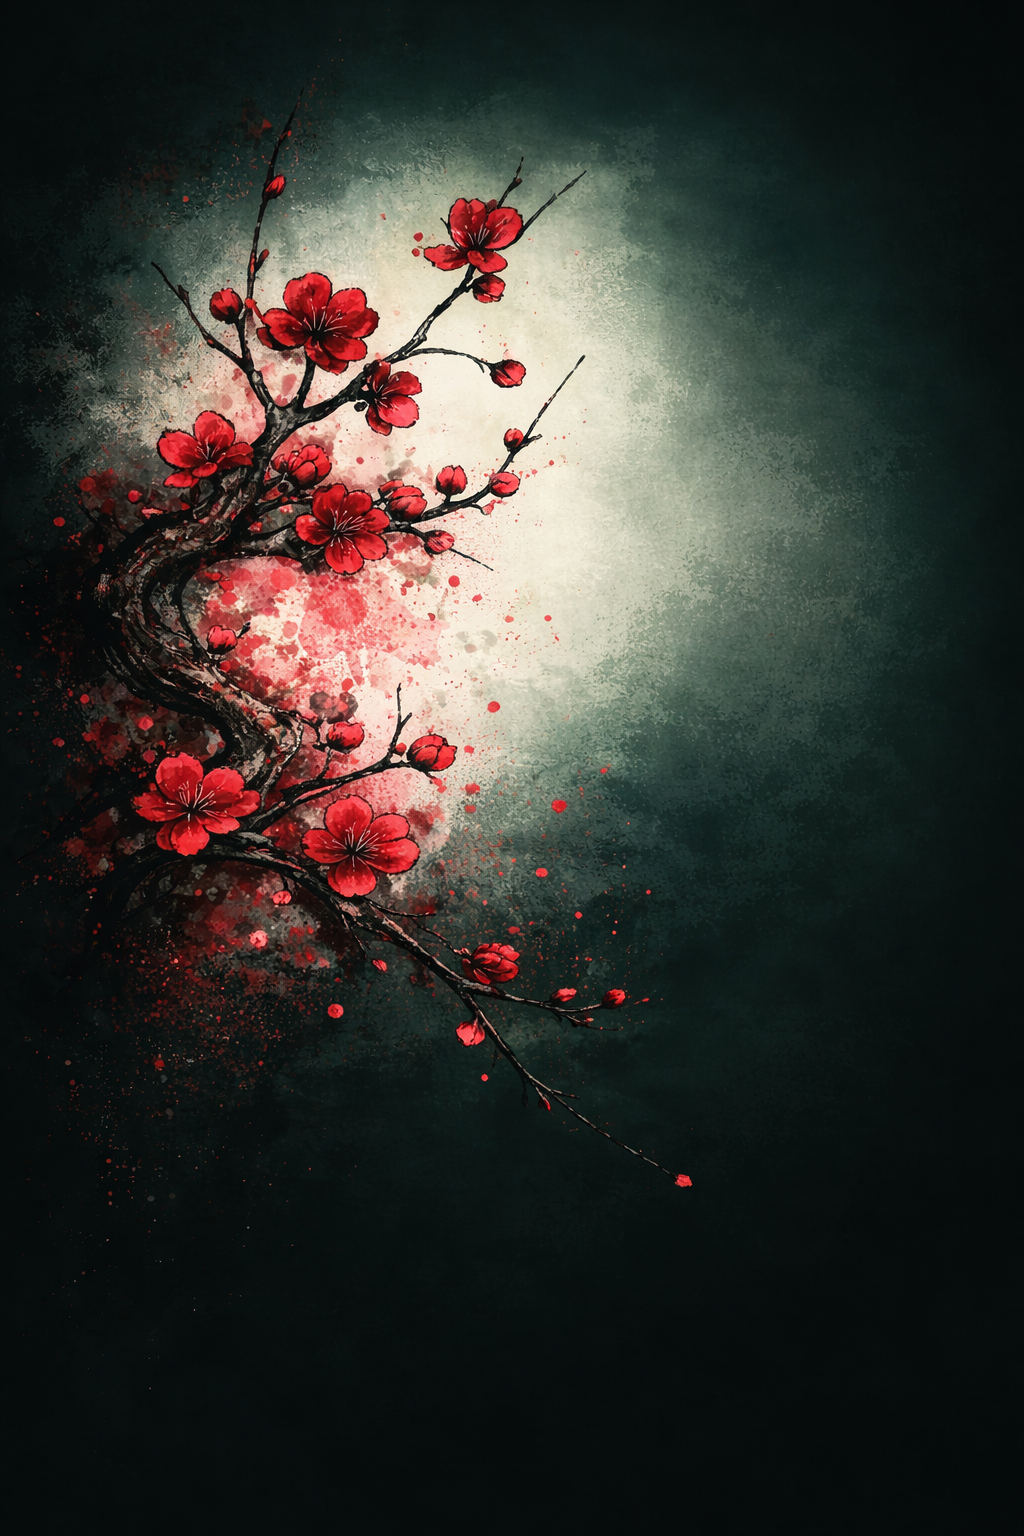
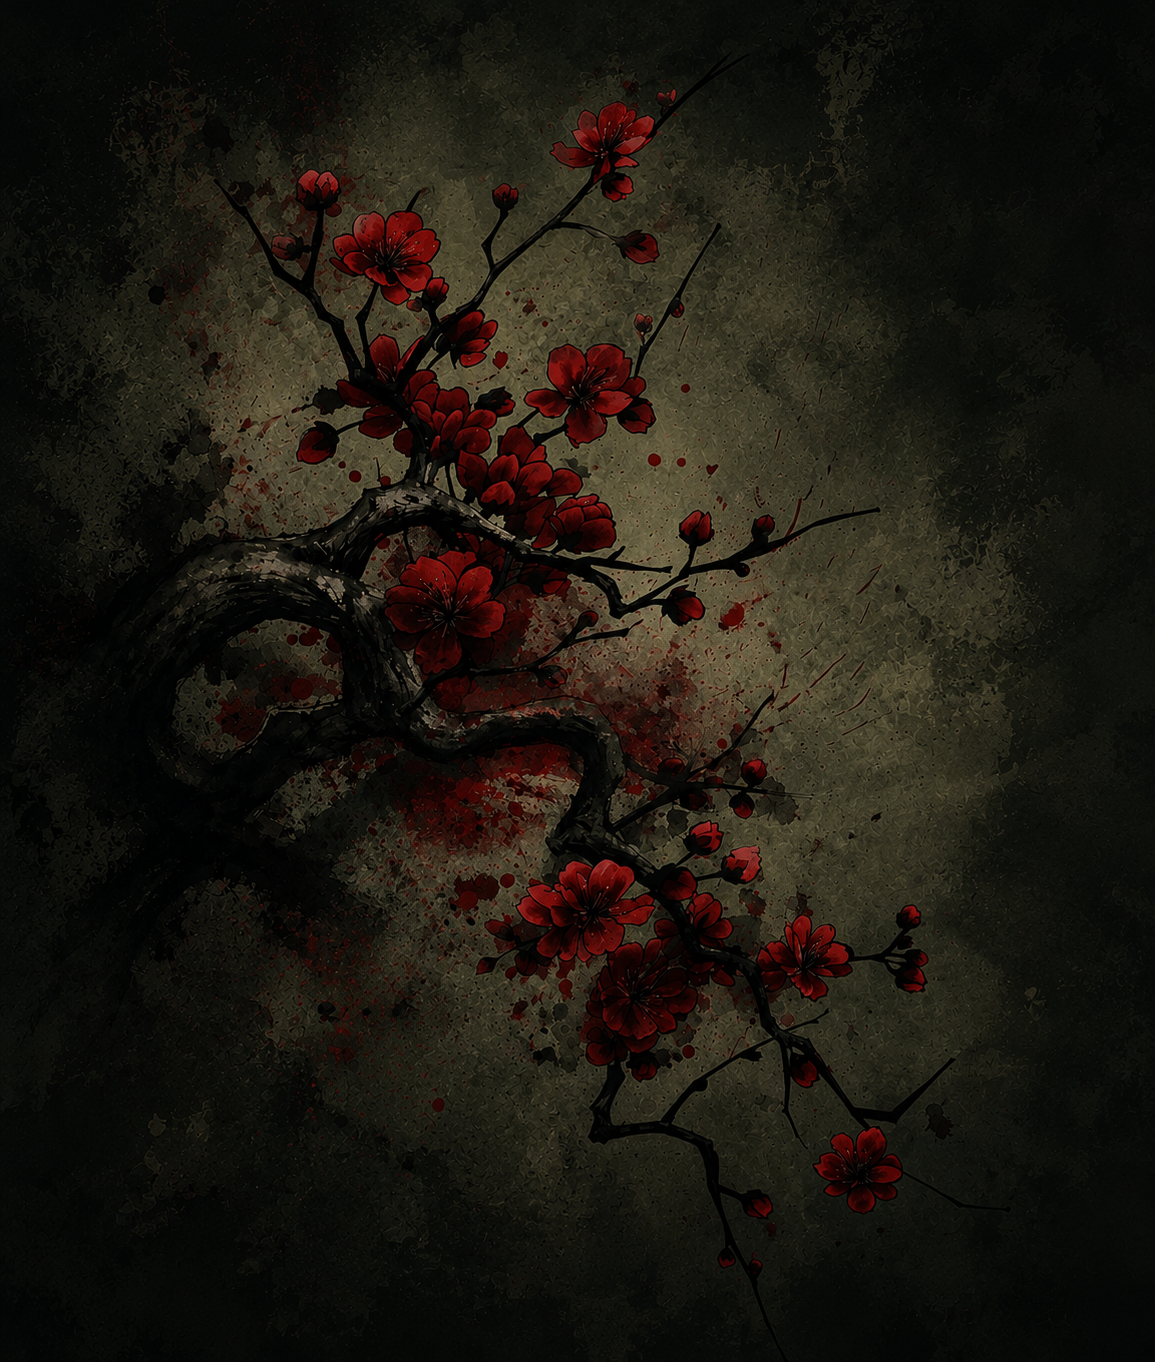
style: set light mode background for music section, adjust translucency, and lift sidebar sakura image

diff --git a/src/app/styles.css b/src/app/styles.css
@@ -262,7 +262,7 @@ body {
   transition: opacity 0.1s ease;
   /* Fade the top of the image smoothly into the background */
   -webkit-mask-image: linear-gradient(to bottom, transparent 0%, black 25%);
-  mask-image: linear-gradient(to bottom, transparent 0%, black 70%);
+  mask-image: linear-gradient(to bottom, transparent 0%, black 50%);
 }
 
 /* Light Mode: Show Light Image, Hide Dark Image */
@@ -288,6 +288,7 @@ body {
   display: block;
   opacity: 0.85;
   mix-blend-mode: screen;
+  transform: translateY(-25px);
   /* Helps the dark image blend without a hard box */
 }
 
@@ -306,7 +307,8 @@ body {
   justify-content: space-between;
   /* Space out hamburger and user actions */
   align-items: center;
-  background: rgba(5, 5, 5, 0.85); /* Darker, more solid for scroll */
+  background: rgba(5, 5, 5, 0.85);
+  /* Darker, more solid for scroll */
   backdrop-filter: blur(20px);
   -webkit-backdrop-filter: blur(20px);
   border-bottom: 2px solid var(--glass-border);
@@ -955,6 +957,16 @@ input:checked+.slider:before {
   /* Prevents flex/grid blowout */
 }
 
+.bento-item-translucent {
+  background: rgba(10, 10, 10, 0.10);
+  backdrop-filter: blur(14px);
+}
+
+[data-theme='light'] .bento-item-translucent {
+  background: rgba(255, 255, 255, 0.45);
+  backdrop-filter: blur(14px);
+}
+
 .bento-item>section {
   flex: 1;
   width: 100%;
@@ -1228,7 +1240,7 @@ section:hover {
 }
 
 /* Ensure all timer content sits above the bg image */
-.timer-box > * {
+.timer-box>* {
   position: relative;
   z-index: 1;
 }
@@ -1292,7 +1304,7 @@ section:hover {
 }
 
 /* Hide divider immediately after the active tab */
-.mode-btn.active + .tab-divider {
+.mode-btn.active+.tab-divider {
   opacity: 0;
 }
 
@@ -1784,11 +1796,12 @@ nav.gen {
 }
 
 @media (max-width: 768px) {
+
   .theme-toggle span,
   .auth-btn span {
     display: none;
   }
-  
+
   .theme-toggle,
   .auth-btn {
     padding: 0.6rem;
@@ -2189,6 +2202,10 @@ footer {
    =================================== */
 
 /* Timer UI Overrides */
+[data-theme='light'] .timer-box::before {
+  background-image: url('/images/pomodaybg.png');
+}
+
 [data-theme='light'] .timer-glow-bg {
   background: var(--card-bg);
   box-shadow: 0 10px 30px rgba(0, 0, 0, 0.05);

diff --git a/src/app/HomeClient.tsx b/src/app/HomeClient.tsx
@@ -35,20 +35,20 @@ const HomeClient: React.FC = () => {
                 </div>
 
                 {/* Row 2: Notes (Full Width) */}
-                <div className="bento-item bento-row-full">
+                <div className="bento-item bento-row-full bento-item-translucent">
                     <NotesSection {...notes} />
                 </div>
 
                 {/* Row 3: Tasks + Study Groups (50/50) */}
-                <div className="bento-item">
+                <div className="bento-item bento-item-translucent">
                     <TasksSection {...tasks} />
                 </div>
-                <div className="bento-item">
+                <div className="bento-item bento-item-translucent">
                     <StudyGroupsSection />
                 </div>
 
                 {/* Row 4: Motivation (Full Width) */}
-                <div className="bento-item bento-row-full">
+                <div className="bento-item bento-row-full bento-item-translucent">
                     <MotivationSection />
                 </div>
             </main>

diff --git a/src/app/components/sections/music-styles.css b/src/app/components/sections/music-styles.css
@@ -1318,6 +1318,18 @@
    LIGHT MODE OVERRIDES FOR MUSIC UI
    =================================== */
 
+[data-theme='light'] .music-box {
+    background-image: url('/images/musicdaybg.png');
+}
+
+[data-theme='light'] .music-box:hover {
+    background-image: url('/images/musicdaybg.png');
+}
+
+[data-theme='light'] .music-box::before {
+    background: rgba(255, 255, 255, 0.35);
+}
+
 [data-theme='light'] .music-settings {
     background: rgba(48, 82, 41, 0.05);
     border-color: rgba(48, 82, 41, 0.1);
